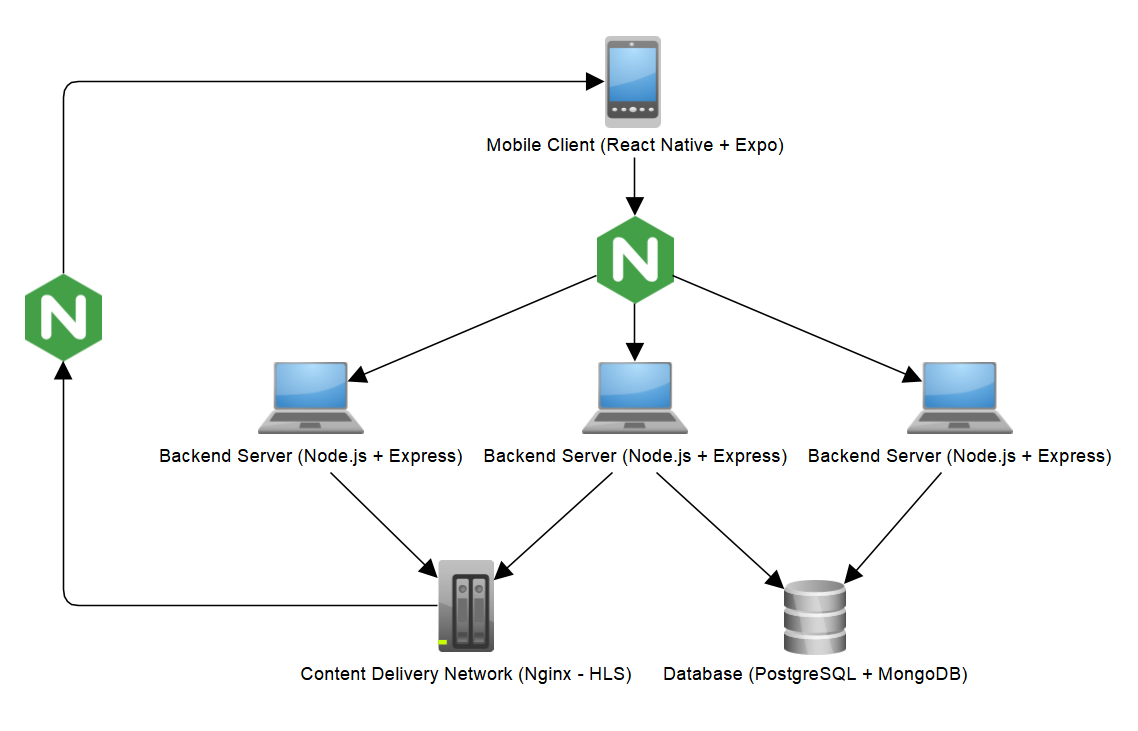
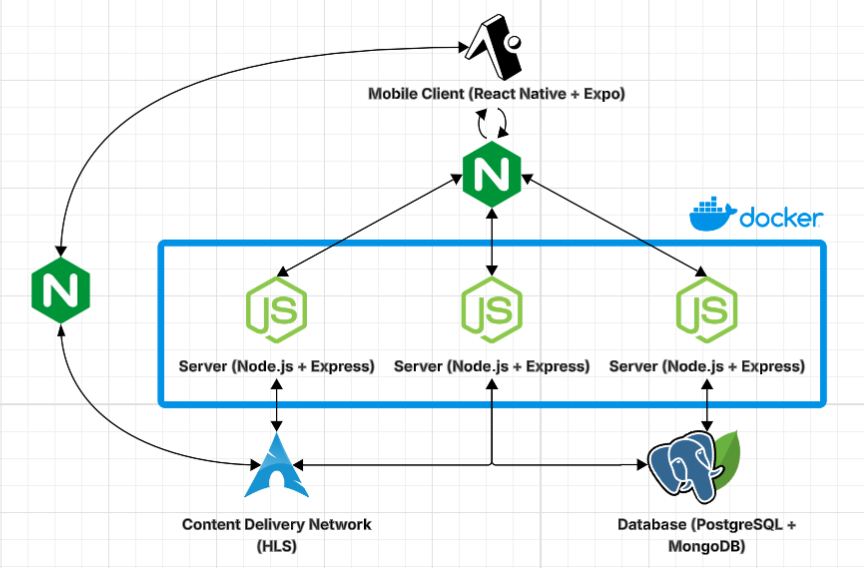
diagrams updated and test configuration corrected

diff --git a/playwright.config.ts b/playwright.config.ts
@@ -42,15 +42,15 @@ export default defineConfig({
       use: { ...devices['Desktop Chrome'] },
     },
 
-    {
-      name: 'firefox',
-      use: { ...devices['Desktop Firefox'] },
-    },
+    // {
+    //   name: 'firefox',
+    //   use: { ...devices['Desktop Firefox'] },
+    // },
 
-    {
-      name: 'webkit',
-      use: { ...devices['Desktop Safari'] },
-    },
+    // {
+    //   name: 'webkit',
+    //   use: { ...devices['Desktop Safari'] },
+    // },
 
     /* Test against mobile viewports. */
     // {

diff --git a/tests/general/content/interactions.spec.ts b/tests/general/content/interactions.spec.ts
@@ -44,7 +44,6 @@ test.describe('Content Interaction Tests', () => {
         await expect(page.getByText('Movies').first()).toBeVisible({ timeout: 10000 });
         await page.getByText('Movies').first().click();
         await expect(page).toHaveURL(/movies/i);
-        // Open the first content card
         await page.locator('[data-testid="content-card"] img, .content-card img').first().click();
         await expect(page.getByText('Play', { exact: true })).toBeVisible({ timeout: 8000 });
     });

diff --git a/README.md b/README.md
@@ -47,10 +47,10 @@ The system follows a distributed architecture to ensure scalability and separati
 
 ```bash
 nodeflix/
-├── client/          # Frontend mobile application (Expo)
+├── client/          # Frontend mobile application (Expo/React Native)
 ├── server/          # Backend API (Node.js/Express)
-├── cdn/             # Content Distribution Network & Media Processing
-├── db/              # Database models and configuration
+├── cdn/             # Content Distribution Network & Media Processing (Nginx)
+├── db/              # Database models and configuration (Postgres/MongoDB)
 ├── docs/            # Project documentation and assets
 ├── tests/           # End-to-end and integration tests
 └── docker-compose.yml
@@ -81,6 +81,48 @@ docker compose up -d --build
 - Backend: `http://localhost:5000`
 - CDN: `http://localhost:80`
 - Client: Follow instructions in [client/README.md](./client/README.md)
+
+---
+
+## Testing
+
+Nodeflix features a robust end-to-end and API testing suite implemented with **Playwright**.
+
+### Prerequisites
+
+Before running the tests, ensure that:
+1. All backend, database, and CDN services are running (e.g., using `docker compose up -d`).
+2. The client web server is running at the address specified by the environment variables (typically `http://localhost:8081/`).
+3. Your local `.env` file is properly configured with the test variables:
+   - `PLAYWRIGHT_URL` (or `PLAYWRIGHT_PAGE_URL`): The URL where the client is running (default `http://localhost:8081/`).
+   - `PLAYWRIGHT_API_URL`: The URL of the API gateway (default `http://localhost:5000/api`).
+   - `PLAYWRIGHT_JWT_TOKEN`: A valid JWT bearer token for authenticated API tests.
+   - `BYPASS_RATELIMIT_SECRET`: The rate-limit bypass key matching the backend configuration.
+
+>[!WARNING] JWT TOKEN needs to be retrieved manually with a HTTP request!
+
+### Running Tests
+
+We provide scripts in the root `package.json` to simplify test execution. You can run them using `npm`:
+
+```bash
+# Run all tests headlessly
+npm test
+
+# Run tests in UI Mode (with interactive browser and debugger)
+npm run test:ui
+
+# Run tests in headed/debug mode
+npm run test:debug
+
+# View the HTML report of the last test execution
+npm run test:report
+```
+
+To run a specific test file or directory, use:
+```bash
+npx playwright test tests/api/basics.spec.ts
+```
 
 ---
 
